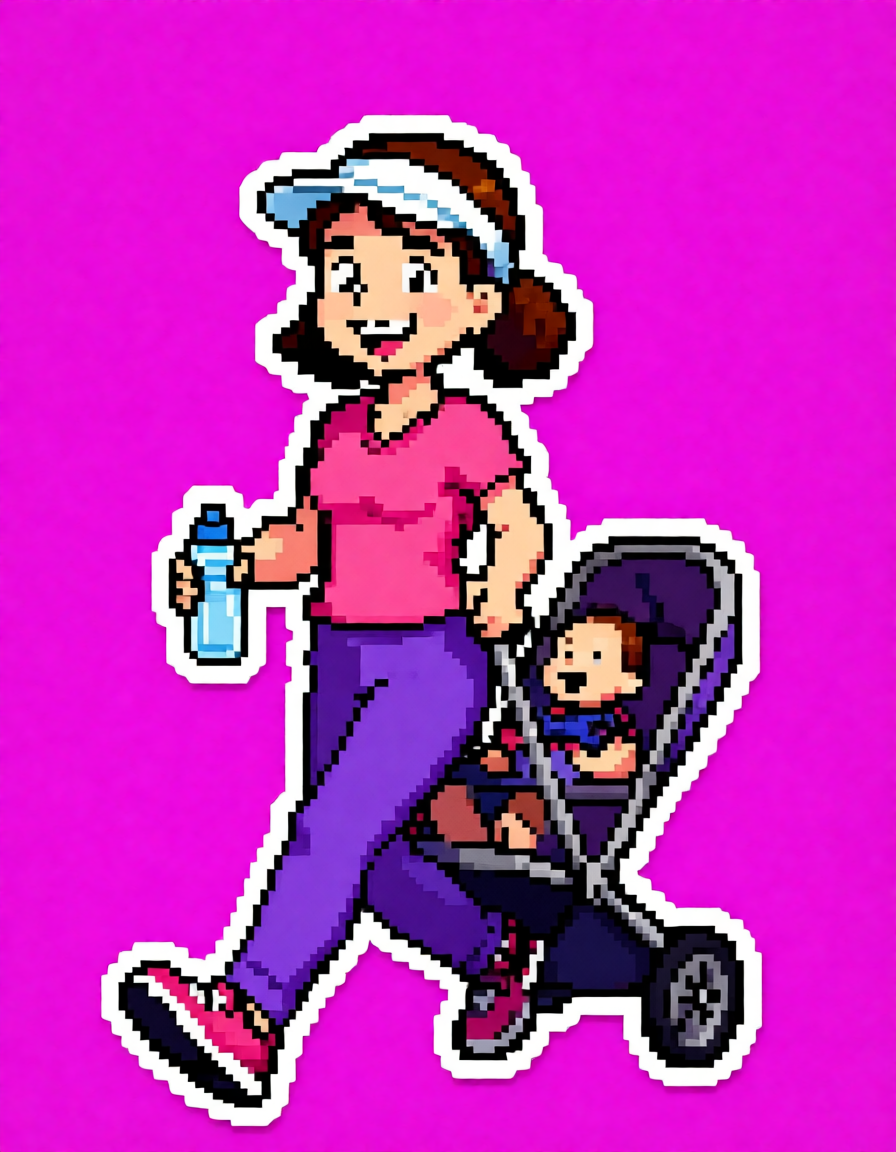
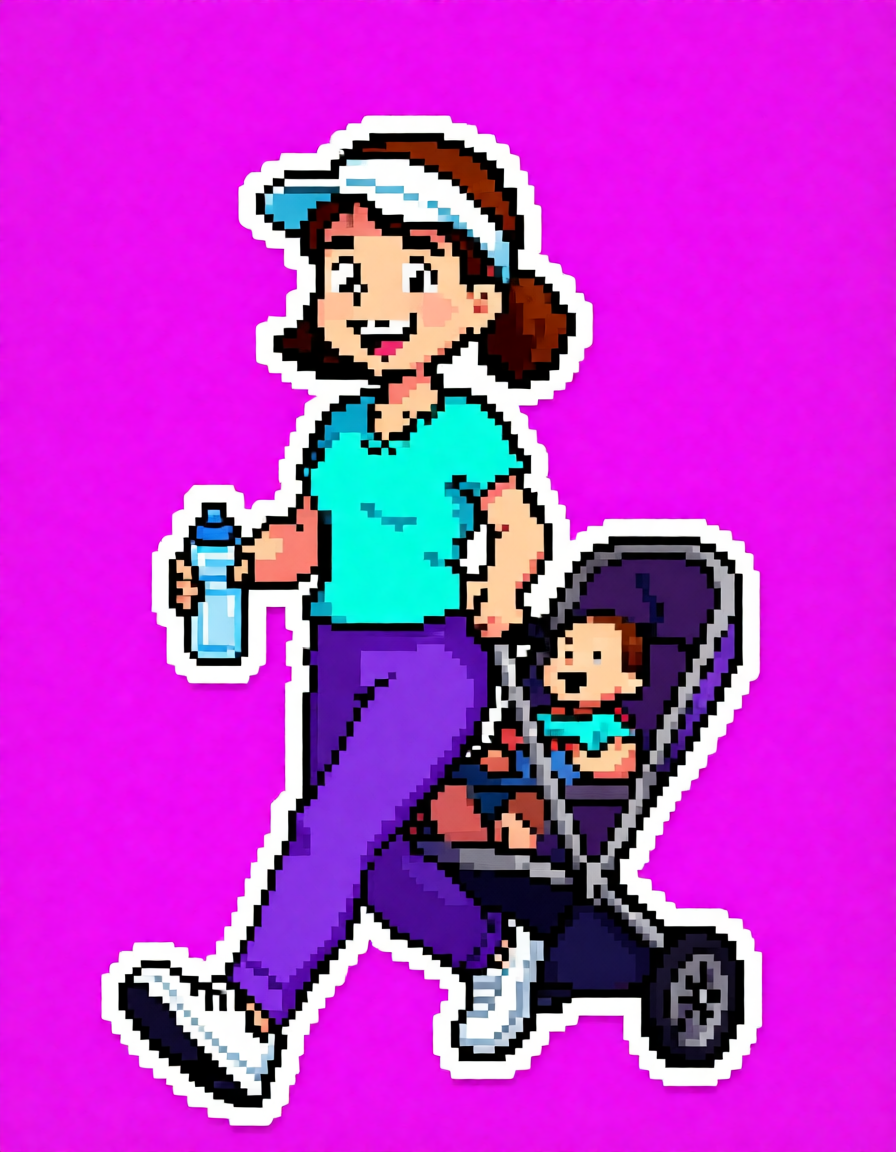
Lincoln Park in turquoise (the pink top was keyed away), and the corkboard shows bespoke Polaroids for the teen and the turtle
Job #238: Lincoln Park master redo and the teen/turtle candid snapshots from the bushes (polaroids.py). js/board.js and style.css show assets/polaroids/TYPE.png in place of the emoji.

diff --git a/style.css b/style.css
@@ -139,8 +139,7 @@ h2 { align-self: flex-start; font: 700 28px/1.1 var(--display); color: var(--tex
 .polaroid { width: 130px; background: #fff; border: 0; padding: 8px 8px 10px; display: flex; flex-direction: column; gap: 3px; align-items: center; font: 700 13px var(--body); color: var(--text); box-shadow: 3px 4px 0 rgba(42,24,48,.85); }
 .polaroid b { font-family: var(--display); font-weight: 600; }
 .polaroid canvas { width: 100%; }
-.shot { width: 100%; height: 88px; background: var(--teal); display: flex; align-items: center; justify-content: center; font-size: 48px; }
-.shot.teen::after { content: '🧑🎤'; } .shot.turtle::after { content: '🐢'; } .shot.ninja::after { content: '🥷'; } .shot.mutant::after { content: '👾'; }
+.shot { width: 100%; height: 88px; object-fit: cover; background: var(--teal); display: block; }
 .detail { position: fixed; inset: 0; background: rgba(42,24,48,.62); display: flex; align-items: center; justify-content: center; padding: 16px; z-index: 6; }
 .file { background: var(--paper); border: 4px solid #fff; border-radius: 12px; box-shadow: var(--cut); padding: 16px; max-width: 420px; font-size: 16px; display: flex; flex-direction: column; gap: 8px; }
 .file h3 { font: 700 22px var(--display); }

diff --git a/js/board.js b/js/board.js
@@ -50,7 +50,7 @@
   function enemies(camp) {
     return scatter(Object.keys(C.ENEMIES).map(type => {
       const file = R.enemyFile(camp, type);
-      return `<button class="polaroid" data-enemy="${type}"><div class="shot ${type}"></div><b>${file.name}</b><span>${file.notes.length ? `${file.notes.length} note${file.notes.length > 1 ? 's' : ''}` : '???'}</span></button>`;
+      return `<button class="polaroid" data-enemy="${type}"><img class="shot" src="assets/polaroids/${type}.png" alt=""><b>${file.name}</b><span>${file.notes.length ? `${file.notes.length} note${file.notes.length > 1 ? 's' : ''}` : '???'}</span></button>`;
     }), { cell: [140, 170], salt: 2 });
   }
 

diff --git a/art/paper/make_rest_spec.py b/art/paper/make_rest_spec.py
@@ -111,6 +111,30 @@ def pizzas2():
         (ART / "characters" / name / "runs/paper_masters2.toml").write_text(shots(name, [VINNY, cur, SQ], out[0], out[1], (1024, 1024)))
 
 
+SPIN3 = {
+    "slice-deep": ("Big Stan, a heavy Chicago deep dish pizza slice: keep image 1's body plan but make the slice a tall, thick, heavy wedge with a thick golden-brown crust wall along the top and sides, "
+                   "the top brimming with thick glossy red tomato sauce over the cheese, long red sauce drips running down the sides with a fat drop at the bottom, three round pepperoni, "
+                   "burly thick arms, white gloves, and heavy black boots instead of sneakers. Stocky and wide",
+                   "a flat heavy downturned line mouth, grumpy and stubborn"),
+    "slice-jumbo": ("Phil A. Buster, an absurdly big, floppy pizza slice: keep image 1's body plan but make the slice far longer and larger than the legs, with a big rolled tube of crust along the top, "
+                    "the long pointed tip drooping and bending over to one side, thick melted yellow cheese dripping down the sides, three round pepperoni, thin small arms and white gloves, "
+                    "tiny thin legs and small red sneakers that look far too small for the huge slice",
+                    "a small wobbly wavy line mouth, pompous and anxious"),
+}
+
+
+def pizzas3():
+    """Third round, deep and jumbo: the pixel-art references kept dragging the old brows and big cartoon eyes in. Image 1 is Vinny alone."""
+    for name, (text, mouth) in SPIN3.items():
+        out = []
+        for flat in (True, False):
+            out.append("Image 1 is Vinny, a finished paper standee pizza slice mascot. Redraw it as a different character: " + text + ". "
+                       "Keep exactly image 1's material, thick white paper cut border, clean flat colours" + ("" if flat else " with one soft shade") + ", simple bold shapes, and above all its face: "
+                       "two small plain blank black dot eyes, no eyebrows, no white eyeballs, no pupils, " + mouth + ". Standing and facing slightly right, the whole figure visible head to feet. "
+                       "Image 2 shows only the paper material to borrow; do not copy its characters. " + TAIL.split("do not copy their characters or animals. ")[1])
+        (ART / "characters" / name / "runs/paper_masters3.toml").write_text(shots(name, [VINNY, SQ], out[0], out[1], (1024, 1024)))
+
+
 def customers():
     for name, text in CUSTOMER.items():
         d = ART / "characters" / name
@@ -184,4 +208,4 @@ def polaroids():
 
 
 if __name__ == "__main__":
-    pizzas(); pizzas2(); customers(); lincoln2(); others(); polaroids()
+    pizzas(); pizzas2(); pizzas3(); customers(); lincoln2(); others(); polaroids()

diff --git a/art/paper/polaroids.py b/art/paper/polaroids.py
@@ -1,0 +1,57 @@
+"""Corkboard Polaroids: a picked candid generation in, the game's photo out.
+
+    python3 art/paper/polaroids.py enemy CHARACTER SHOT SEED JOB     -> assets/polaroids/TYPE.png (244x176, shown by js/board.js)
+    python3 art/paper/polaroids.py alewife SHOT SEED JOB             -> assets/backgrounds/hq/alewife-polaroid.png (300x300, the final shot)
+
+The generated image is kept as art/characters/CHARACTER/references/polaroid-source.png (+ .json record). The photo is softened (it was snapped from
+the bushes), given a faint warm cast and vignette, and cut to 112 colours without dithering so it sits with the sprites.
+"""
+import json, shutil, sys
+from pathlib import Path
+
+import numpy as np
+from PIL import Image, ImageFilter
+
+ART = Path(__file__).resolve().parents[1]
+GAME = ART.parent
+DATA = Path("/mnt/data/sprite-forge/runs")
+
+
+def keep(char, run, shot, seed, job):
+    src = DATA / char / run / "qwen-edit" / shot / f"{seed}"
+    out = ART / f"characters/{char}/references/polaroid-source.png"
+    shutil.copy(f"{src}.png", out)
+    rec = json.loads(Path(f"{src}.json").read_text())
+    rec["job"] = int(job)
+    out.with_suffix(".json").write_text(json.dumps(rec, indent=1))
+    return Image.open(out).convert("RGB")
+
+
+def develop(im, size, blur, vignette=0.28):
+    w, h = size
+    # cover-crop to the target ratio
+    r = max(w / im.width, h / im.height)
+    im = im.resize((round(im.width * r), round(im.height * r)), Image.LANCZOS)
+    im = im.crop(((im.width - w) // 2, (im.height - h) // 2, (im.width - w) // 2 + w, (im.height - h) // 2 + h))
+    if blur:
+        im = im.filter(ImageFilter.GaussianBlur(blur))
+    a = np.asarray(im).astype(float)
+    yy, xx = np.mgrid[0:h, 0:w]
+    d = np.hypot((xx - w / 2) / (w / 2), (yy - h / 2) / (h / 2))
+    a *= (1 - vignette * np.clip(d - 0.55, 0, 1) ** 1.5)[..., None]
+    a = a * np.array([1.03, 1.0, 0.94]) + np.array([6, 3, 0])   # faint warm snapshot cast
+    im = Image.fromarray(np.clip(a, 0, 255).astype(np.uint8))
+    return im.quantize(112, method=Image.MEDIANCUT, dither=Image.NONE).convert("RGB")
+
+
+if __name__ == "__main__":
+    what = sys.argv[1]
+    if what == "enemy":
+        char, shot, seed, job = sys.argv[2:6]
+        out = GAME / "assets/polaroids"
+        out.mkdir(parents=True, exist_ok=True)
+        develop(keep(char, "polaroid", shot, seed, job), (244, 176), 0.9).save(out / f"{char}.png", optimize=True)
+    else:
+        shot, seed, job = sys.argv[2:5]
+        develop(keep("alewife", "polaroid", shot, seed, job), (300, 300), 0.5, 0.2).save(GAME / "assets/backgrounds/hq/alewife-polaroid.png", optimize=True)
+    print("ok", sys.argv[1:])

diff --git a/art/paper/contact.py b/art/paper/contact.py
@@ -2,7 +2,7 @@
 
     python3 art/paper/contact.py OUT.png [CHARACTER/ANIM ...]     (default: the New York cast)
 """
-import json, sys
+import json, os, sys
 from pathlib import Path
 
 from PIL import Image, ImageDraw
@@ -19,7 +19,8 @@ Z, COLS, BG = 2, 8, (150, 164, 190, 255)
 def main(out, names):
     rows = []
     for n in names:
-        d = ASSETS / n
+        c, a = n.split("/")
+        d = (ASSETS / n) if not os.environ.get("CONTACT_SRC") else (ASSETS.parents[1] / "art/characters" / c / "sprites" / a)
         a = json.loads((d / "atlas.json").read_text())
         w, h = a["frame"]["w"], a["frame"]["h"]
         sheet = Image.open(d / "sheet.png").convert("RGBA")
